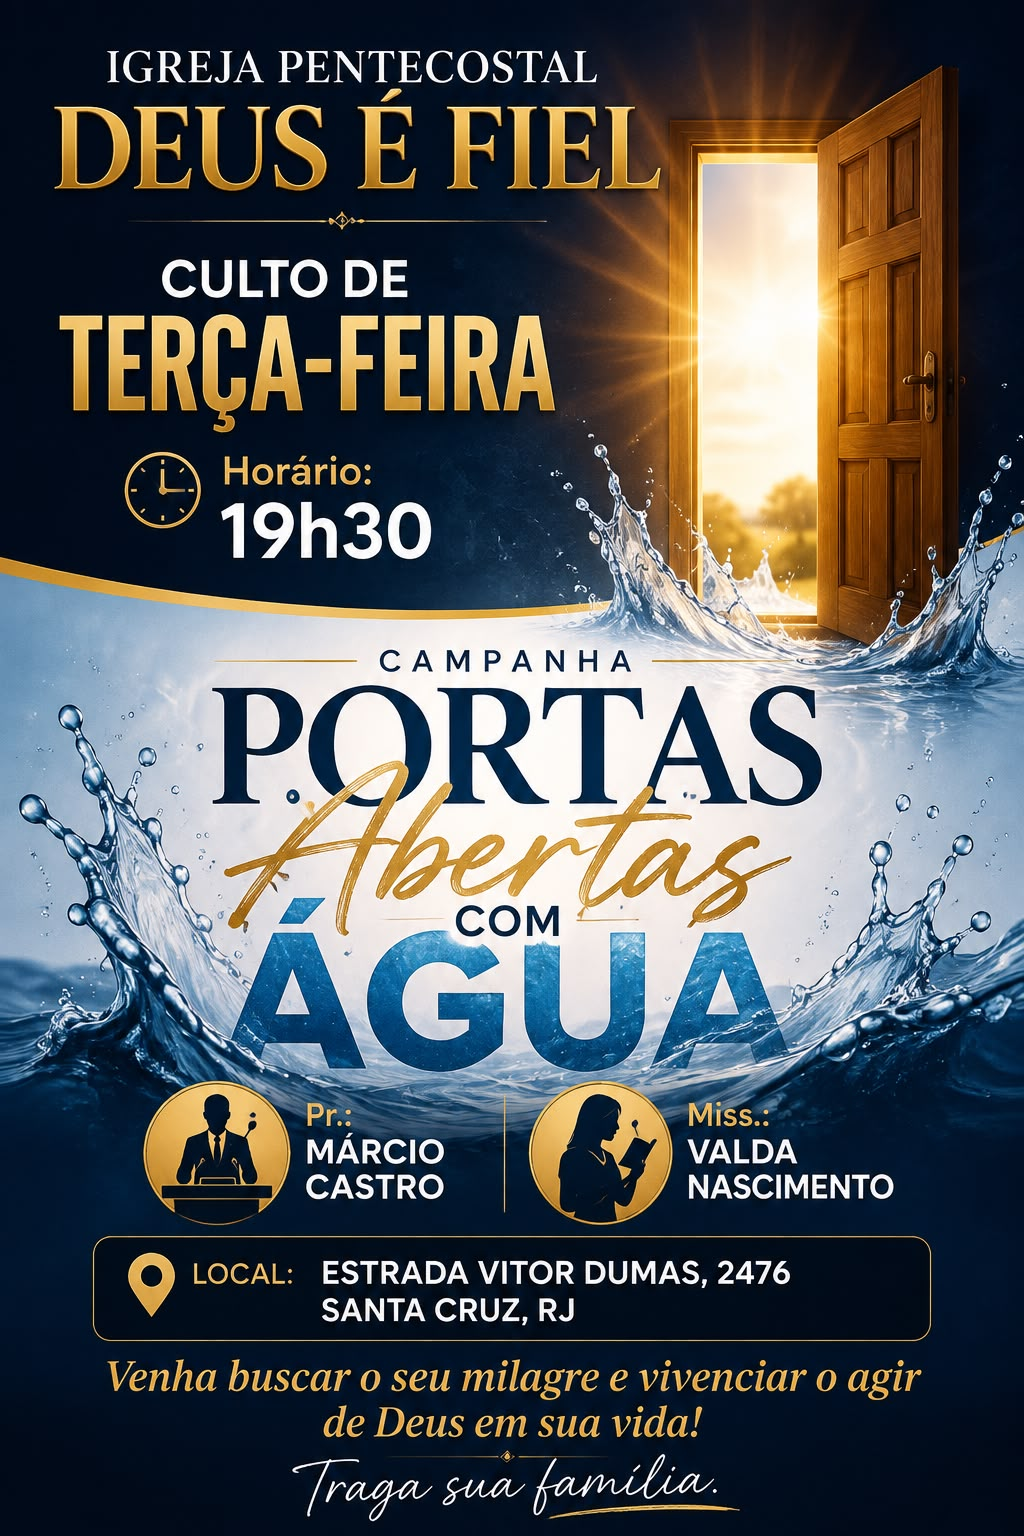
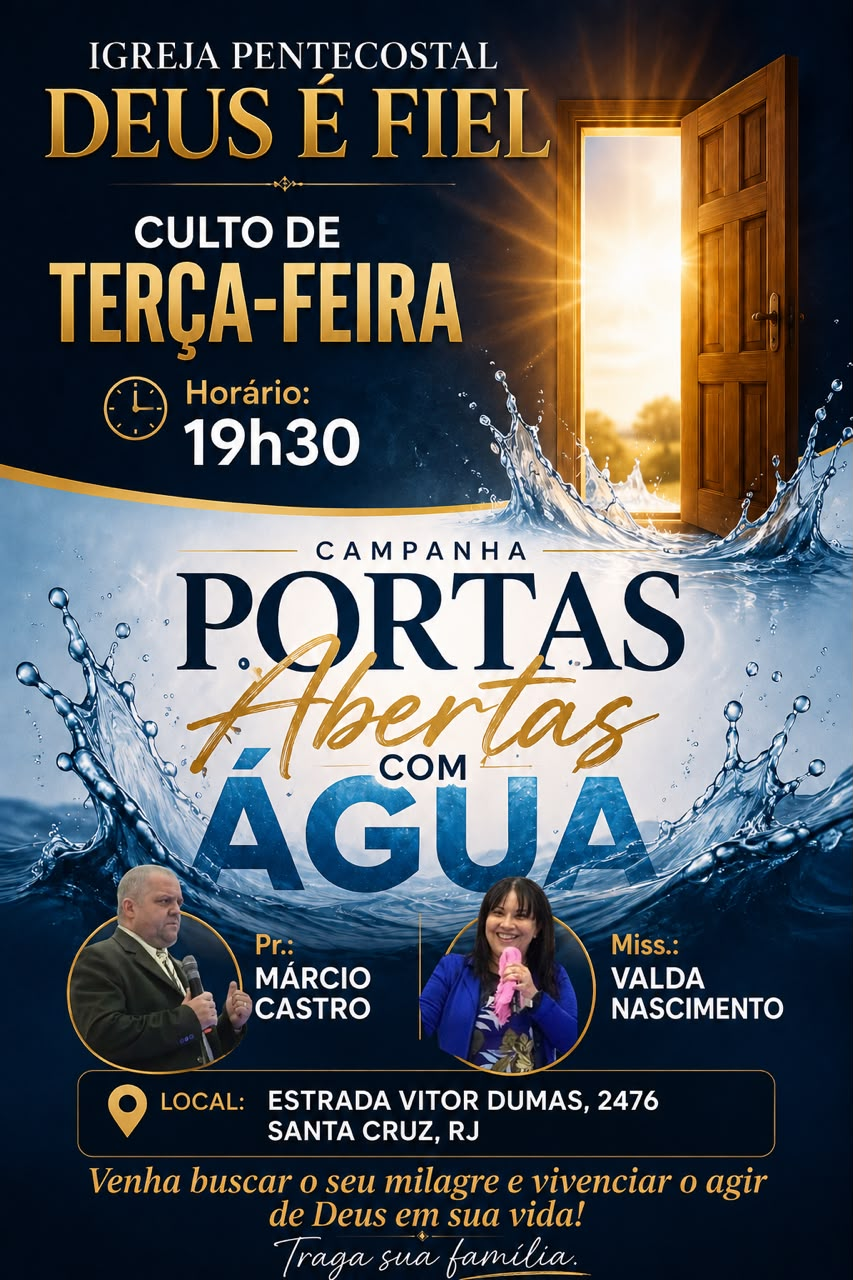
Add files via upload

diff --git a/index.html b/index.html
@@ -462,7 +462,7 @@ h1,h2,h3{font-family:var(--font-display);color:var(--ink);letter-spacing:-.01em;
   background:
     radial-gradient(560px 320px at 14% -10%, rgba(232,201,138,.28) 0%, transparent 60%),
     linear-gradient(180deg, rgba(15,20,36,.15) 0%, rgba(15,20,36,.55) 62%, rgba(15,20,36,.92) 100%),
-    url('foto-banner.jpg') center 30%/cover no-repeat;
+    url('foto-banner.jpeg') center 30%/cover no-repeat;
   box-shadow:var(--shadow);
   margin-bottom:26px;
 }
@@ -3330,8 +3330,8 @@ hr.soft{border:none;border-top:1px solid var(--line);margin:22px 0;}
                   <div class="settings-card-sub">Selecione um símbolo do mundo bíblico para representar você no app.</div>
                 </div>
                 <div class="avatar-picker-grid" id="avatar-picker-grid">
-                  <button type="button" class="avatar-option selected" data-avatar-emoji="A" data-avatar-gradient="linear-gradient(135deg,var(--sage),var(--gold))" title="Inicial">
-                    <span class="avatar-swatch avatar-swatch-initial" style="background:linear-gradient(135deg,var(--sage),var(--gold));">C</span>
+                  <button type="button" class="avatar-option selected" data-avatar-emoji="" data-avatar-initial="true" data-avatar-gradient="linear-gradient(135deg,var(--sage),var(--gold))" title="Inicial">
+                    <span class="avatar-swatch avatar-swatch-initial" id="avatar-swatch-initial-preview" style="background:linear-gradient(135deg,var(--sage),var(--gold));">C</span>
                     <span class="avatar-label">Inicial</span>
                   </button>
                   <button type="button" class="avatar-option" data-avatar-emoji="🕊" data-avatar-gradient="linear-gradient(135deg,#8FA6C9,#DCE6DD)" title="Pomba">
@@ -5581,12 +5581,18 @@ function atualizarNomeConta(){
   if(usuarioConfig && state.perfil) usuarioConfig.textContent = state.perfil.nome_usuario;
 
   // Só atualiza a letra-inicial se ainda não houver um avatar temático (emoji) escolhido —
-  // evita sobrescrever a escolha visual do usuário.
+  // evita sobrescrever a escolha visual do usuário. Um avatar_emoji vazio/ausente significa
+  // que o usuário está no modo "Inicial", então a letra deve sempre refletir o nome atual.
+  const semAvatarTematico = !(state.perfil && state.perfil.avatar_emoji);
   const avatarSidebar = document.getElementById('sidebar-account-avatar');
   const avatarConfig = document.getElementById('settings-avatar-preview');
   [avatarSidebar, avatarConfig].forEach(el=>{
-    if(el && el.textContent.trim().length <= 1) el.textContent = inicial;
+    if(el && semAvatarTematico) el.textContent = inicial;
   });
+
+  // Mantém a prévia do botão "Inicial" no seletor de avatares sempre com a letra certa
+  const swatchInicial = document.getElementById('avatar-swatch-initial-preview');
+  if(swatchInicial) swatchInicial.textContent = inicial;
 }
 
 /* =========================================================
@@ -7796,7 +7802,11 @@ function syncDashSurpriseFavBtn(){
 
     const salvarRestante = async ()=>{
       const avatarPreviewEl = document.getElementById('settings-avatar-preview');
-      const emoji = avatarPreviewEl ? avatarPreviewEl.textContent.trim() : (state.perfil && state.perfil.avatar_emoji) || 'A';
+      // Não reaproveita o texto atualmente exibido na tela (pode estar desatualizado se o
+      // nome acabou de ser trocado); decide pelo tipo de avatar selecionado no seletor.
+      const avatarSelecionado = document.querySelector('.avatar-option.selected');
+      const isInicial = avatarSelecionado ? avatarSelecionado.dataset.avatarInitial === 'true' : !(state.perfil && state.perfil.avatar_emoji);
+      const emoji = isInicial ? '' : (avatarSelecionado ? avatarSelecionado.dataset.avatarEmoji : ((state.perfil && state.perfil.avatar_emoji) || ''));
       const gradient = avatarPreviewEl ? avatarPreviewEl.style.background : ((state.perfil && state.perfil.avatar_gradient) || '');
 
       const { error } = await db.rpc('atualizar_perfil', {
@@ -7968,11 +7978,20 @@ function syncDashSurpriseFavBtn(){
       if(opt.classList.contains('selected')) return;
       avatarOptions.forEach(o=>o.classList.remove('selected'));
       opt.classList.add('selected');
-      const emoji = opt.dataset.avatarEmoji;
+
+      // O botão "Inicial" não representa uma letra fixa: a letra exibida é sempre
+      // calculada a partir do nome de exibição cadastrado do próprio usuário.
+      const isInicial = opt.dataset.avatarInitial === 'true';
+      const nomeAtual = (state.perfil && state.perfil.nome_exibicao) ? state.perfil.nome_exibicao.trim() : '';
+      const letraInicial = nomeAtual ? nomeAtual.charAt(0).toUpperCase() : '?';
+      const emojiExibido = isInicial ? letraInicial : opt.dataset.avatarEmoji;
+      // No banco, o modo "Inicial" é salvo como vazio — assim cada tela (membros online,
+      // conversas, canais etc.) calcula a letra certa a partir do nome de cada pessoa.
+      const emojiParaSalvar = isInicial ? '' : opt.dataset.avatarEmoji;
       const gradient = opt.dataset.avatarGradient;
       [avatarPreview, sidebarAvatar].forEach(el=>{
         if(!el) return;
-        el.textContent = emoji;
+        el.textContent = emojiExibido;
         el.style.background = gradient;
       });
 
@@ -7983,7 +8002,7 @@ function syncDashSurpriseFavBtn(){
         p_nome_exibicao: (state.perfil && state.perfil.nome_exibicao) || '',
         p_sobre_mim: (state.perfil && state.perfil.sobre_mim) || '',
         p_membro_desde: (state.perfil && state.perfil.membro_desde) || null,
-        p_avatar_emoji: emoji,
+        p_avatar_emoji: emojiParaSalvar,
         p_avatar_gradient: gradient
       });
       if(error){
@@ -7991,7 +8010,7 @@ function syncDashSurpriseFavBtn(){
         toast('Não foi possível salvar o avatar', '⚠');
         return;
       }
-      if(state.perfil){ state.perfil.avatar_emoji = emoji; state.perfil.avatar_gradient = gradient; }
+      if(state.perfil){ state.perfil.avatar_emoji = emojiParaSalvar; state.perfil.avatar_gradient = gradient; }
       toast('Avatar salvo! ✨', '✨');
     });
   });
@@ -8177,20 +8196,28 @@ function renderCampaignHero(campaign, opts){
     </article>`;
 }
 
-/* Aplica o avatar salvo no banco (se houver) na sidebar e nas configurações */
+/* Aplica o avatar salvo no banco (se houver) na sidebar e nas configurações.
+   Quando não há avatar temático salvo (avatar_emoji vazio/nulo), o usuário está no
+   modo "Inicial" e a letra é calculada a partir do nome de exibição cadastrado. */
 function aplicarAvatarSalvo(){
-  if(!state.perfil || !state.perfil.avatar_emoji) return;
-  const emoji = state.perfil.avatar_emoji;
-  const gradient = state.perfil.avatar_gradient;
+  if(!state.perfil) return;
+  const emojiSalvo = state.perfil.avatar_emoji || '';
+  const nomeCompleto = state.perfil.nome_exibicao ? state.perfil.nome_exibicao.trim() : '';
+  const inicial = nomeCompleto ? nomeCompleto.charAt(0).toUpperCase() : '?';
+  const emoji = emojiSalvo || inicial;
+  const gradient = state.perfil.avatar_gradient || 'linear-gradient(135deg,var(--sage),var(--gold))';
   const avatarSidebar = document.getElementById('sidebar-account-avatar');
   const avatarConfig = document.getElementById('settings-avatar-preview');
   [avatarSidebar, avatarConfig].forEach(el=>{
     if(!el) return;
     el.textContent = emoji;
-    if(gradient) el.style.background = gradient;
+    el.style.background = gradient;
   });
+  const swatchInicial = document.getElementById('avatar-swatch-initial-preview');
+  if(swatchInicial) swatchInicial.textContent = inicial;
   document.querySelectorAll('.avatar-option').forEach(opt=>{
-    opt.classList.toggle('selected', opt.dataset.avatarEmoji === emoji);
+    const isInicial = opt.dataset.avatarInitial === 'true';
+    opt.classList.toggle('selected', isInicial ? !emojiSalvo : opt.dataset.avatarEmoji === emojiSalvo);
   });
 }
 
